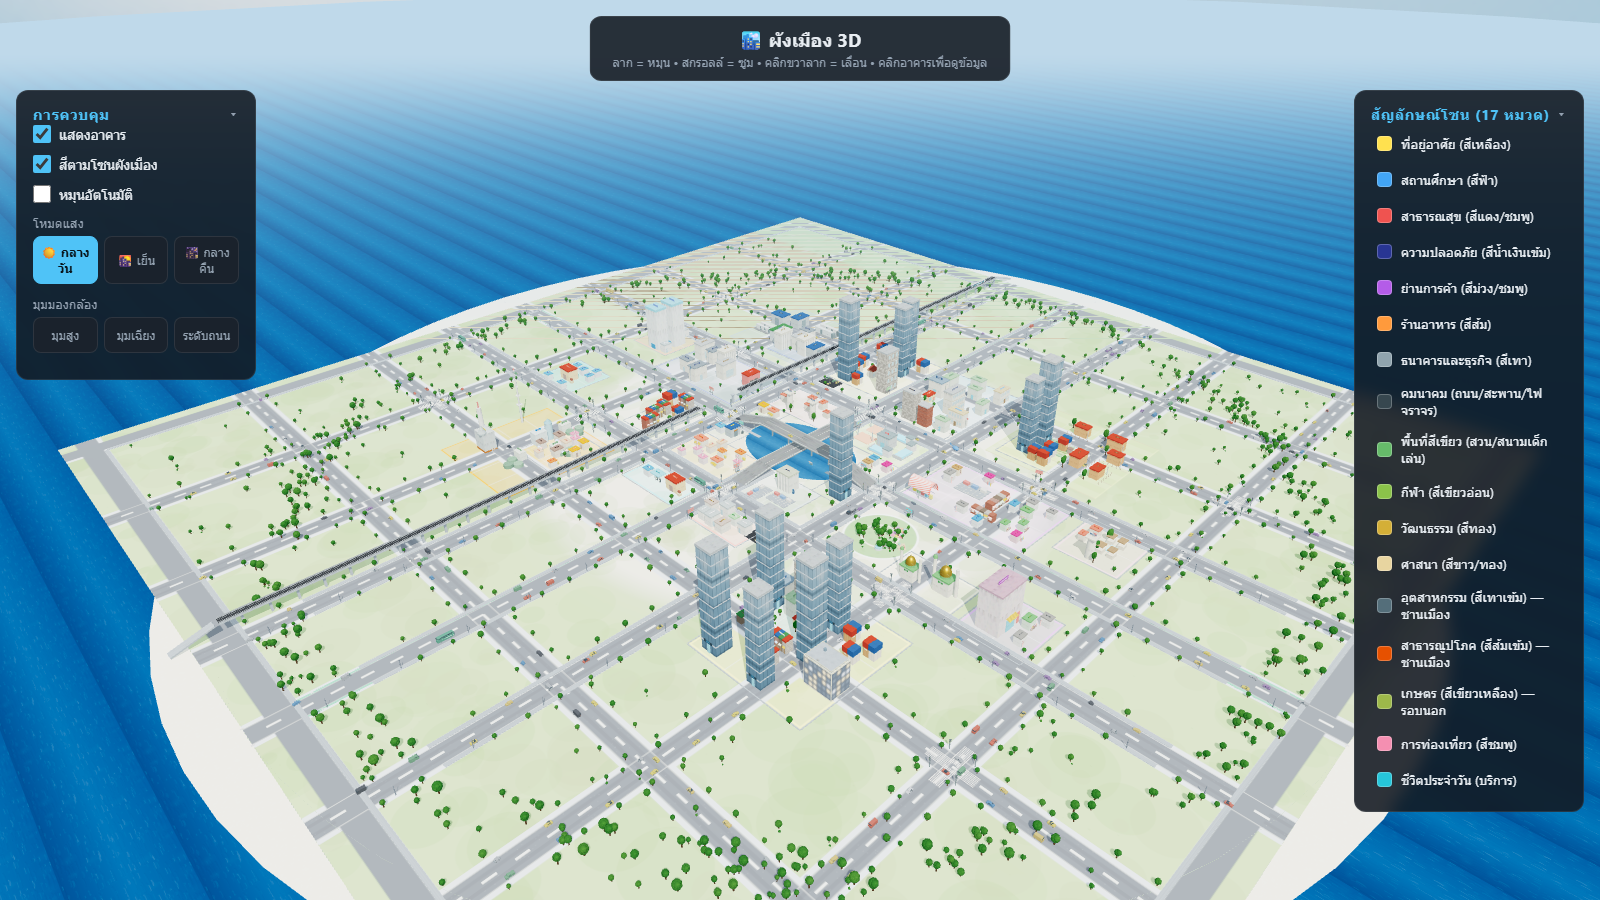
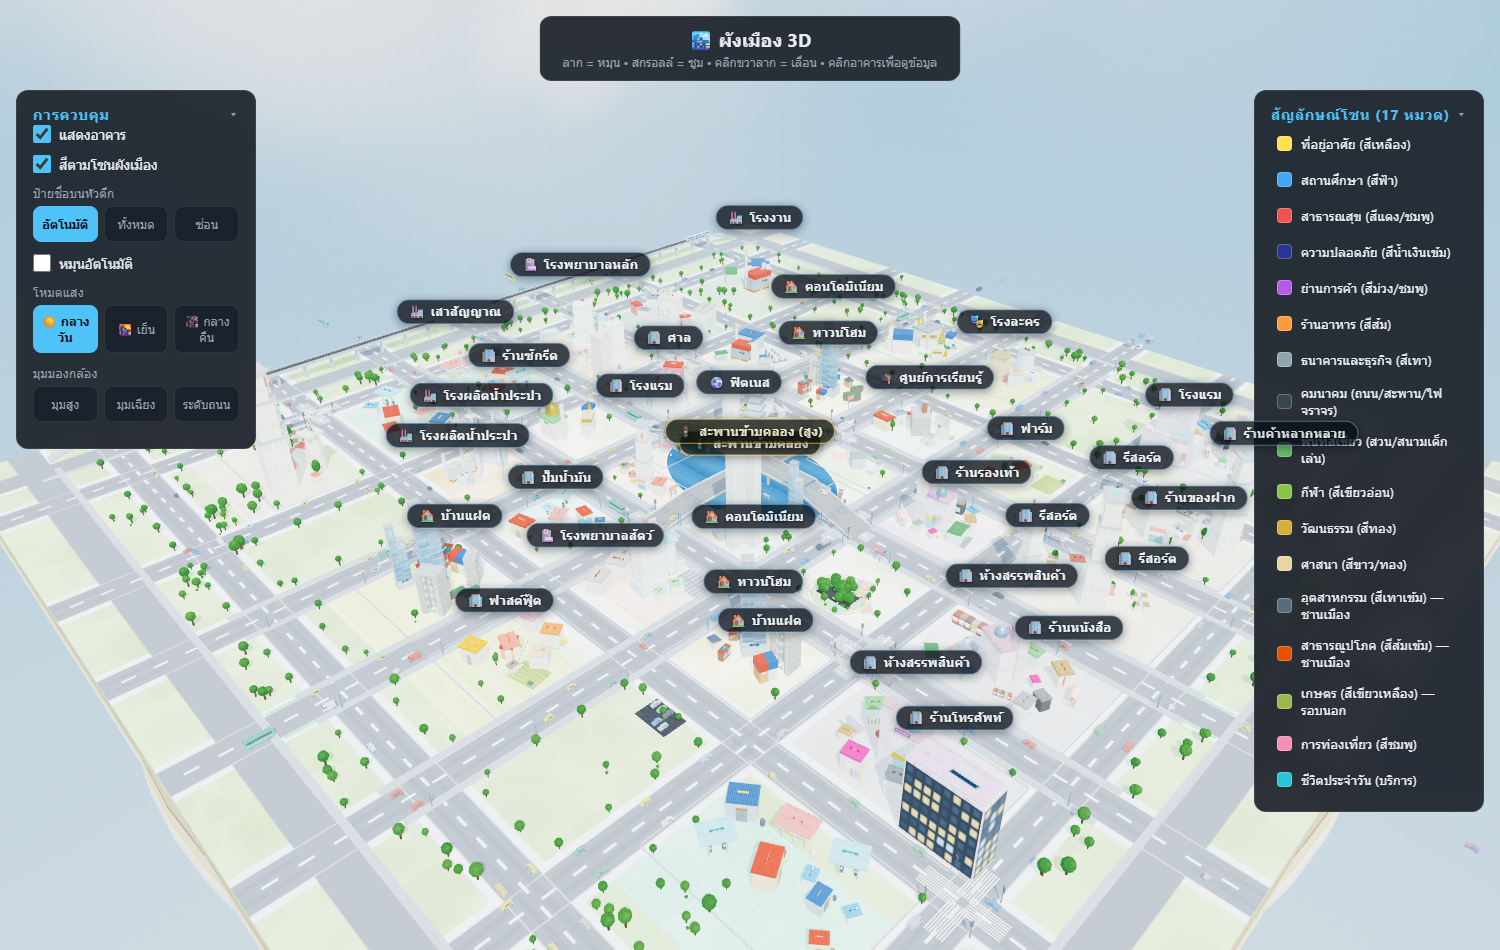
Update project 15/09/26 15:47

diff --git a/js/main.js b/js/main.js
@@ -51,8 +51,18 @@
     { zone: 'tourism',     x:  -36, z:  -42, w:  50, d:  26 },
     { zone: 'food',        x:  -36, z:   42, w:  50, d:  26 },
     { zone: 'business',    x:   34, z:   40, w:  48, d:  20 },
-    { zone: 'health',      x:   34, z:   95, w:  48, d:  32 },
-    { zone: 'everyday',    x:  -34, z:   95, w:  48, d:  32 },
+    { zone: 'health',      x:   34, z:   96, w:  50, d:  54 },   // เต็มช่องชานเมืองตะวันออก
+    { zone: 'everyday',    x:  -34, z:   96, w:  50, d:  54 },   // เต็มช่องชานเมืองตะวันตก
+    // === แถวเหนือ (z=-190) เติมให้เต็มทั้งแถว ===
+    { zone: 'sports',      x:  -34, z: -190, w:  50, d:  54 },
+    { zone: 'culture',     x:   34, z: -190, w:  50, d:  54 },
+    { zone: 'business',    x:  -34, z:  -36, w:  50, d:  54 },   // ธุรกิจเสริมแยกกลางฝั่งตะวันตก
+    { zone: 'tourism',     x:  -34, z:   42, w:  50, d:  26 },   // โรงแรมริมทะเลสาบฝั่งเหนือ
+    // === แถวใต้ (z=190) เติมให้เต็มทั้งแถว ===
+    { zone: 'res',         x:  -34, z:  190, w:  50, d:  54 },
+    { zone: 'food',        x:   34, z:  190, w:  50, d:  54 },
+    { zone: 'religion',    x:  -34, z: -190, w:  50, d:  54 },
+    { zone: 'agriculture', x:   34, z:  190, w:  50, d:  54 },
   ];
 
   // บล็อกเติมช่องว่าง (ทำให้เมืองแน่นขึ้น ไม่โล่ง)
@@ -73,7 +83,13 @@
     { zone: 'safety',   x: -190, z: -108, w: 80, d: 48 },
     { zone: 'tourism',  x:  190, z: -108, w: 80, d: 48 },
     { zone: 'commerce', x:  190, z:  108, w: 80, d: 48 },
-    { zone: 'everyday', x: -190, z:  108, w: 80, d: 48 }
+    { zone: 'everyday', x: -190, z:  108, w: 80, d: 48 },
+    // === แถวเหนือ z=-190 ของย่านชั้นนอก ===
+    { zone: 'commerce', x:  190, z: -190, w: 80, d: 52 },
+    { zone: 'industry', x: -190, z: -190, w: 80, d: 52 },
+    // === แถวใต้ z=190 ของย่านชั้นนอก ===
+    { zone: 'everyday', x:  190, z:  190, w: 80, d: 52 },
+    { zone: 'tourism',  x: -190, z:  190, w: 80, d: 52 }
   );
 
   // สิ่งปลูกสร้างจำลองต่อโซน (จาก City.makers ใน city.js)
@@ -101,6 +117,11 @@
     res: 20, edu: 15, health: 12, safety: 10, commerce: 26, food: 16, business: 11,
     sports: 9, culture: 11, religion: 7, industry: 8, utility: 8, agriculture: 8,
     tourism: 11, everyday: 12,
+  };
+  // บล็อกใหม่บางส่วนเล็กกว่าบล็อกเดิม — กำหนดจำนวนสิ่งปลูกสร้างเฉพาะหลัง
+  var BLOCK_COUNT_OVERRIDES = {
+    '-34,-190': 6, '34,-190': 6, '-34,-36': 9, '-34,42': 4, '-34,190': 10,
+    '34,190': 12, '-34,-190': 6, '34,190': 10,
   };
 
   // โซนชานเมือง/เกษตรไม่ต้องมีขอบทางเท้ารอบบล็อก
@@ -332,23 +353,25 @@
       }
     });
 
-    // แถวนาข้าว NE (วาดเฉพาะในบล็อก 52x52)
+    // แถวนาข้าว — วาดในทุกบล็อกโซนเกษตร (สีเขียวเหลืองเป็นแถวมีคันนา)
     (function riceRows() {
-      var b = { x: 105, z: -105, w: 52, d: 52 };
-      var cx = (b.x + GROUND_SIZE / 2) * px, cy = (b.z + GROUND_SIZE / 2) * px;
-      for (var ry = 0; ry < 10; ry++) {
-        g.fillStyle = ry % 2 ? 'rgba(150,180,80,0.5)' : 'rgba(120,160,60,0.5)';
-        g.fillRect(cx - b.w / 2 * px, cy - b.d / 2 * px + ry * (b.d / 10) * px, b.w * px, (b.d / 10) * px - 2);
-      }
-      // คันนาสีน้ำตาล
-      g.strokeStyle = 'rgba(120,96,60,0.8)';
-      g.lineWidth = 3;
-      for (var k = 0; k <= 3; k++) {
-        g.beginPath();
-        g.moveTo(cx - b.w / 2 * px, cy - b.d / 2 * px + k * (b.d / 3) * px);
-        g.lineTo(cx + b.w / 2 * px, cy - b.d / 2 * px + k * (b.d / 3) * px);
-        g.stroke();
-      }
+      ZONE_BLOCKS.forEach(function (b) {
+        if (b.zone !== 'agriculture') return;
+        var cx = (b.x + GROUND_SIZE / 2) * px, cy = (b.z + GROUND_SIZE / 2) * px;
+        for (var ry = 0; ry < 10; ry++) {
+          g.fillStyle = ry % 2 ? 'rgba(150,180,80,0.5)' : 'rgba(120,160,60,0.5)';
+          g.fillRect(cx - b.w / 2 * px, cy - b.d / 2 * px + ry * (b.d / 10) * px, b.w * px, (b.d / 10) * px - 2);
+        }
+        // คันนาสีน้ำตาล
+        g.strokeStyle = 'rgba(120,96,60,0.8)';
+        g.lineWidth = 3;
+        for (var k = 0; k <= 3; k++) {
+          g.beginPath();
+          g.moveTo(cx - b.w / 2 * px, cy - b.d / 2 * px + k * (b.d / 3) * px);
+          g.lineTo(cx + b.w / 2 * px, cy - b.d / 2 * px + k * (b.d / 3) * px);
+          g.stroke();
+        }
+      });
     })();
 
     // ===== ถนน: ทางเท้า + ผิวถนน + เส้นเลน =====
@@ -974,42 +997,90 @@
   }
 
   // วางสิ่งปลูกสร้างจาก City.makers ลงในบล็อกโซน (กระจายทั่วบล็อก + หลีกเลี่ยงการทับซ้อน)
+  // ใช้ "เด็ค" สลับประเภทอาคาร → ทุกประเภทในโซนได้ลงบล็อกอย่างน้อยหลังเดียว (ไม่สุ่มข้าม)
+  // และย่อสเกลอัตโนมัติให้ตัวอาคารพอดีบล็อก → อาคารใหญ่ (โรงพยาบาล/ห้าง/วัด) ไม่โดนตัดทิ้ง
+  var CITY_TYPE_COUNTS = {};   // นับจำนวนที่วางสำเร็จแยกตามประเภท (ใช้ตรวจสอบ/ดีบัก)
   function placeMakers(block, makers, count, minS, maxS, seed, boxes) {
     var rand = seededRandom(seed);
-    var pts = ringOrder(scatterPoints(block, count, rand), block);
+    // จุดวางมากกว่าจำนวนอาคาร (+6) — ประเภทที่พลาดจุดนึง ได้ลองจุดอื่นต่อ ไม่หล่นท้าย
+    var pts = ringOrder(scatterPoints(block, count + 6, rand), block);
+    var deck = [];
+    function refillDeck() {
+      deck = makers.slice();
+      for (var i = deck.length - 1; i > 0; i--) {
+        var j = Math.floor(rand() * (i + 1));
+        var tmp = deck[i]; deck[i] = deck[j]; deck[j] = tmp;
+      }
+      // จัดการ์ดตัวใหญ่ (สูง/กว้าง) ไว้โดนเด็คด้านหลัง = จับก่อน
+      // → อาคารใหญ่ได้จุดกลางบล็อก (จุดวางเรียงจากกลางออกไป) ตัวเล็กเติมขอบ
+      deck.sort(function (a, b) {
+        return (City.makers[a].height || 0) - (City.makers[b].height || 0);
+      });
+    }
+    refillDeck();
+    // ขนาดช่องเฉลี่ยต่ออาคาร (รากที่สองของ พื้นที่บล็อก/จำนวน) — ใช้จำกัดสเกล
+    // ไม่ให้อาคารใหญ่กว่าช่องของมัน → วางได้เกือบทุกจุด เมืองแน่นทั้งบล็อก
+    var cellFoot = Math.sqrt((block.w * block.d) / Math.max(1, count));
     var placed = 0, guard = 0;
-    while (placed < count && guard < count * 20 && pts.length) {
+    while (placed < count && guard < count * 40 && pts.length) {
       guard++;
       var p = pts.shift();
-      var key = makers[Math.floor(rand() * makers.length)];
+      if (!deck.length) refillDeck();
+      var key = deck.pop();
       var mk = City.makers[key];
       if (!mk) continue;
-      var s = minS + rand() * (maxS - minS);
       var grp = mk.build(rand);
       grp.rotation.y = rand() * Math.PI;   // หันสุ่มทุกทิศ — หมู่อาคารไม่เรียงตัวเป็นตาราง
-      // อาคารใหญ่ขึ้นกว่าเดิมชัดเจน: ตัวโครงกว้างขึ้น ~1.85x และสูงขึ้น ~3x เห็นเด่นจากระยะไกล
-      grp.scale.set(s * 1.85, s * 3, s * 1.85);
+      // วัดเท้าอาคารก่อนสเกล (หลังหมุน) เพื่อคำนวณสเกลที่พอดีบล็อก
+      var foot = new THREE.Box3().setFromObject(grp);
+      var fw = Math.max(1, foot.max.x - foot.min.x);
+      var fd = Math.max(1, foot.max.z - foot.min.z);
+      var s = minS + rand() * (maxS - minS);
+      // สเกลเข้ากับจุดที่วาง: เท้าต้องอยู่ในบล็อกทั้งสองแกน (เว้นขอบกันชน 1 ม.)
+      // ไม่เกิน ~42% ของบล็อก และไม่เกิน ~1.7 เท่าของช่องเฉลี่ยต่ออาคาร
+      // → อาคารใหญ่ (โรงพยาบาล/ห้าง/วัด) ไม่โดนตัดทิ้ง และแทบไม่มีการทับซ้อน
+      var hx = block.w / 2 - Math.abs(p.x - block.x);
+      var hz = block.d / 2 - Math.abs(p.z - block.z);
+      var fit = Math.min(s * 1.85, (block.w * 0.42) / fw, (block.d * 0.42) / fd,
+                         Math.max(0.1, 2 * hx - 2) / fw, Math.max(0.1, 2 * hz - 2) / fd,
+                         Math.max(0.9, (1.7 * cellFoot) / (fw + fd)));
+      // หมายเหตุ: คาปช่องเฉลี่ยเป็นเป้า soft — อาคารใหญ่พิเศษ (มหาวิทยาลัย/สำนักงาน/
+      // โรงหนัง/มัสยิด) ย่อได้ถึง 0.9 เพื่อให้ลงบล็อกได้จริง ขอบเขตบล็อกยังกันตายตัวอยู่
+      if (fit < 0.5) {   // จุดนี้แคบเกินสำหรับอาคารนี้ — คืนประเภทลงเด็ค ลองจุดอื่น
+        deck.unshift(key);
+        pts.push({ x: p.x, z: p.z, i: p.i + 0.7 });
+        pts.sort(function (a, b) { return a.i - b.i; });
+        continue;
+      }
+      grp.scale.set(fit, fit * (3 / 1.85), fit);
       var x = p.x, z = p.z;
       grp.position.set(x, 0, z);
       // คำนวณขอบจริงของอาคาร (รวมสเกล+หมุน) เพื่อกันทับซ้อน
       var bb = new THREE.Box3().setFromObject(grp);
-      var bw = bb.max.x - bb.min.x + 2;
-      var bd = bb.max.z - bb.min.z + 2;
-      if (x - bw / 2 < block.x - block.w / 2 || x + bw / 2 > block.x + block.w / 2 ||
-          z - bd / 2 < block.z - block.d / 2 || z + bd / 2 > block.z + block.d / 2) {
-        pts.push({ x: x, z: z, i: p.i });          // เก็บจุดไว้ลองกับอาคารลำดับถัดๆ ไปอีกครั้ง
-        pts.sort(function (a, b) { return a.i - b.i; });
-        continue;
-      }
+      var bw = bb.max.x - bb.min.x + 1;
+      var bd = bb.max.z - bb.min.z + 1;
       if (overlaps(boxes, x, z, bw, bd)) {
-        pts.push({ x: x, z: z, i: p.i + 0.5 });    // จุดเดิมลองใหม่หลังจุดอื่น กันลูปจุดเดิม
-        pts.sort(function (a, b) { return a.i - b.i; });
-        continue;
+        // ทับของเดิม: ลองย่อลงเรื่อย ๆ ก่อนยอมแพ้ (อาคารใหญ่ได้ลงจุดที่เหลืออยู่)
+        var shrunk = false;
+        for (var sc = 0.85; sc >= 0.4; sc -= 0.15) {
+          grp.scale.set(fit * sc, fit * sc * (3 / 1.85), fit * sc);
+          bb = new THREE.Box3().setFromObject(grp);
+          bw = bb.max.x - bb.min.x + 1;
+          bd = bb.max.z - bb.min.z + 1;
+          if (!overlaps(boxes, x, z, bw, bd)) { shrunk = true; break; }
+        }
+        if (!shrunk) {
+          deck.unshift(key);                        // คืนประเภทนี้กลับเด็ค — มีโอกาสลงจุดอื่น
+          pts.push({ x: x, z: z, i: p.i + 0.5 });   // จุดเดิมลองใหม่หลังจุดอื่น กันลูปจุดเดิม
+          pts.sort(function (a, b) { return a.i - b.i; });
+          continue;
+        }
       }
       boxes.push({ x: x, z: z, w: bw, d: bd });
       landmarksGroup.add(grp);
       registerLandmark(grp, mk.label, mk.cat, block.zone);
       addBuildingLabel(grp, mk.label, mk.cat, bb.max.y + 7, null, 2);   // อาคารชื่อเฉพาะ
+      CITY_TYPE_COUNTS[mk.label] = (CITY_TYPE_COUNTS[mk.label] || 0) + 1;
       placed++;
     }
   }
@@ -1034,7 +1105,7 @@
     allBlocks.forEach(function (block, bi) {
       var zone = zoneById(block.zone);
       var makers = ZONE_MAKERS[block.zone];
-      var count = ZONE_COUNTS[block.zone] || 4;
+      var count = BLOCK_COUNT_OVERRIDES[block.x + ',' + block.z] || ZONE_COUNTS[block.zone] || 4;
       var boxes = [];   // พื้นที่ที่วางของไปแล้ว ใช้กันทับซ้อน
 
       if (makers) {
@@ -1057,7 +1128,7 @@
         var cbb = new THREE.Box3().setFromObject(cgrp);
         var cw = cbb.max.x - cbb.min.x, cd = cbb.max.z - cbb.min.z;
         var cTry = 0, cPlaced = false;
-        while (cTry++ < 16 && !cPlaced) {
+        while (cTry++ < 24 && !cPlaced) {
           var cx2 = block.x + (seededRandom(bi * 97 + cTry)() - 0.5) * Math.max(2, block.w - cw - 6);
           var cz2 = block.z + (seededRandom(bi * 131 + cTry)() - 0.5) * Math.max(2, block.d - cd - 6);
           if (overlaps(boxes, cx2, cz2, cw, cd)) continue;
@@ -1142,13 +1213,15 @@
     buildParkingLots();
     plantStreetProps();
     parkCarsAlongStreets();
+    window.__cityTypeCounts = CITY_TYPE_COUNTS;   // hook ตรวจสอบจาก console
   }
 
   // ================= ลานจอดรถ (มีรถจอดจริง) =================
   function buildParkingLots() {
     var lots = [
-      { x: 50, z: 88, w: 20, d: 14 },
-      { x: -50, z: -88, w: 20, d: 14 },
+      { x: 104, z: 45, w: 18, d: 12 },    // ริมสวนสาธารณะกลางเมือง
+      { x: -104, z: -45, w: 18, d: 12 },
+      { x: 105, z: 156, w: 18, d: 12 },   // ช่องระหว่างถนน 140/240 ฝั่งใต้
     ];
     var rand = seededRandom(31337);
     lots.forEach(function (lot) {
